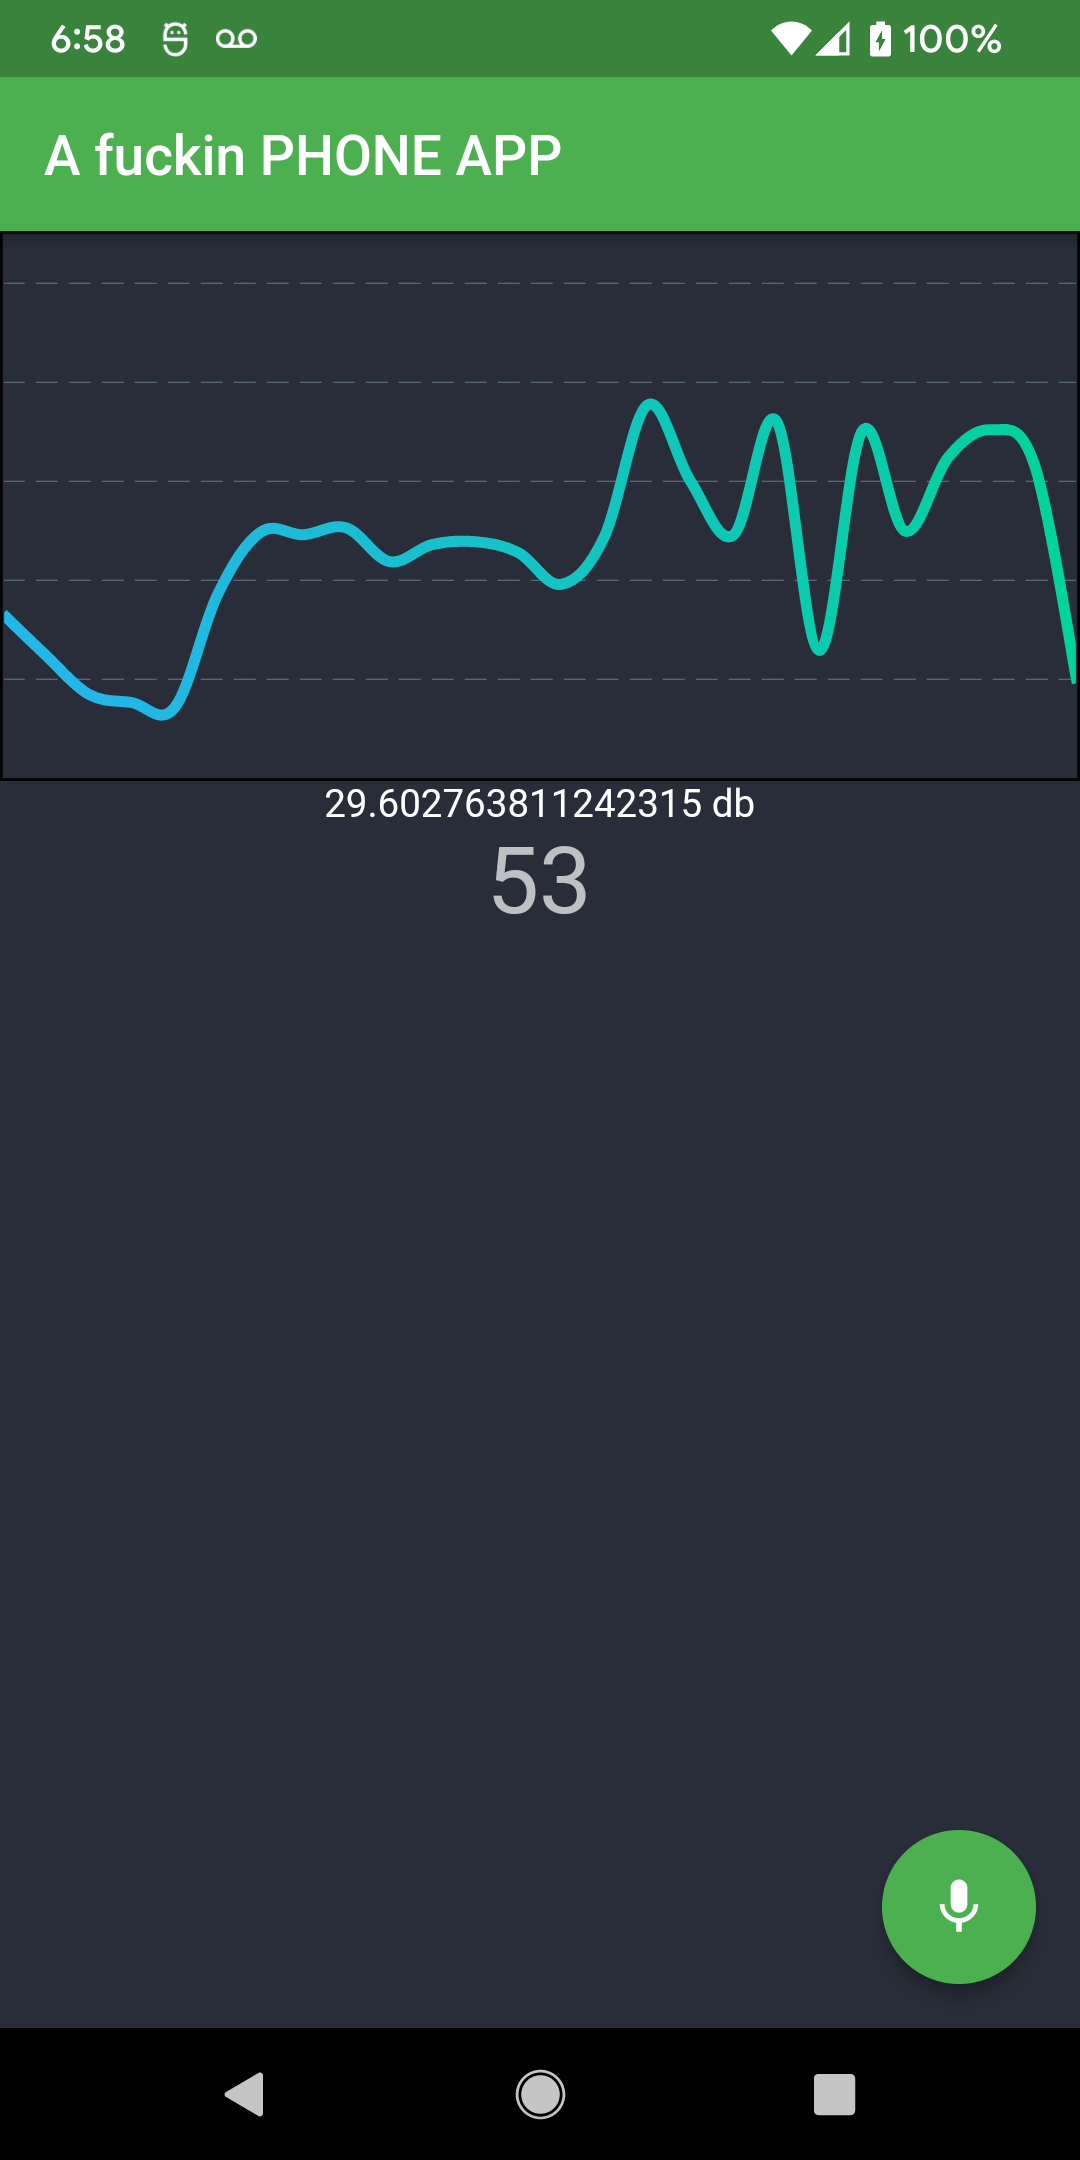
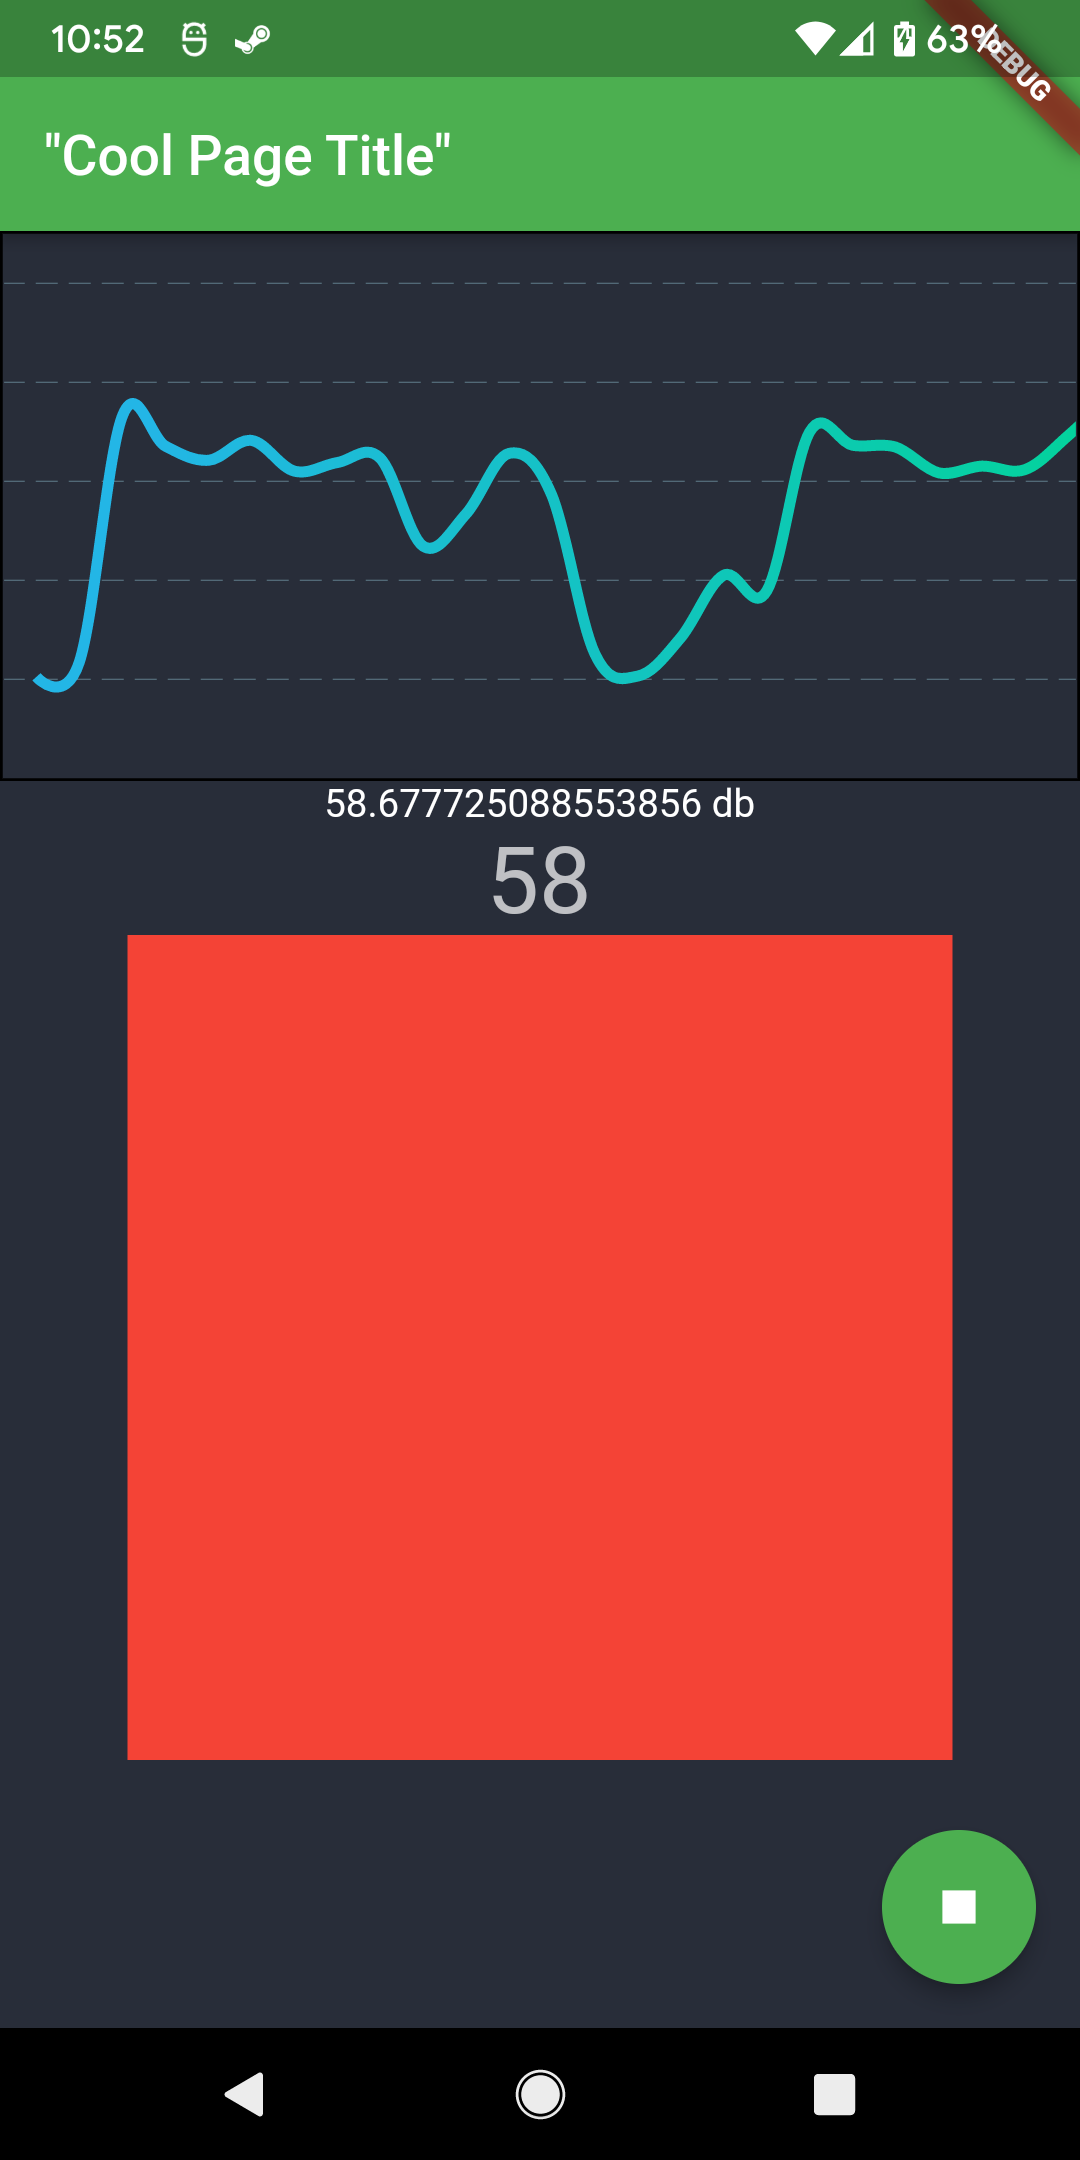
updated to actually add the red square for when its too loud

diff --git a/lib/main.dart b/lib/main.dart
@@ -26,7 +26,7 @@ class MyApp extends StatelessWidget {
         scaffoldBackgroundColor: const Color(0xff282d39),
       ),
       themeMode: ThemeMode.dark,
-      home: const MyHomePage(title: 'A fuckin PHONE APP'),
+      home: const MyHomePage(title: '"Cool Page Title"'),
     );
   }
 }
@@ -185,7 +185,18 @@ class _MyHomePageState extends State<MyHomePage> {
                 Text(
                   '${maxVolume.toInt()}',
                   style: Theme.of(context).textTheme.headline4,
-                )
+                ),
+                SizedBox(
+                    width: 300,
+                    height: 300,
+                    child: DecoratedBox(
+                      decoration: BoxDecoration(
+                          color: maxVolume > 50
+                              ? Colors.red
+                              : maxVolume > 40
+                                  ? Color.fromRGBO(255, 0, 0, (maxVolume - 40) / 10)
+                                  : Colors.transparent),
+                    ))
               ],
             ),
           ),
